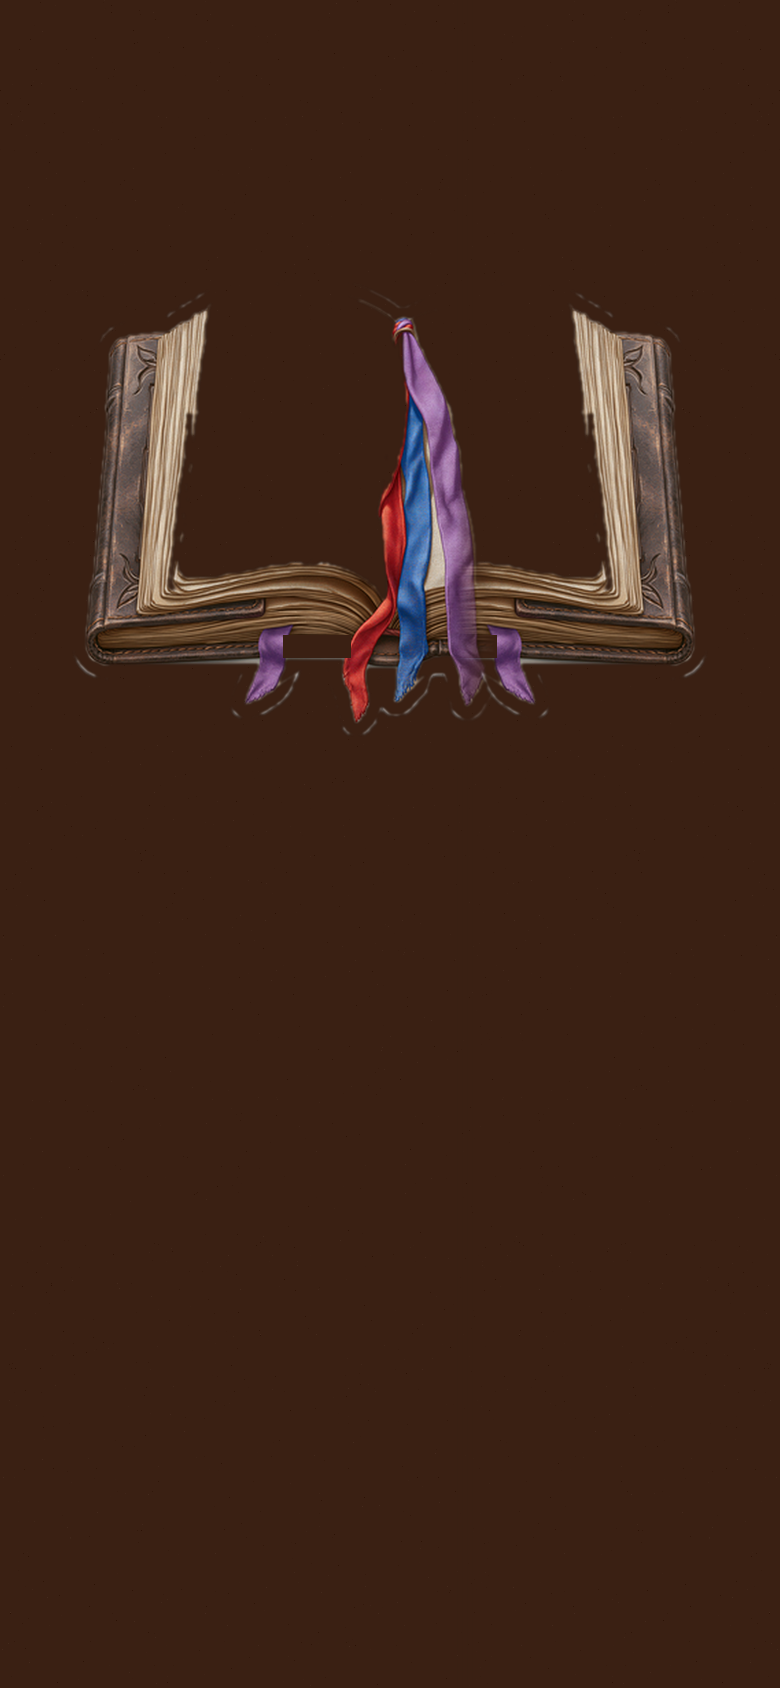
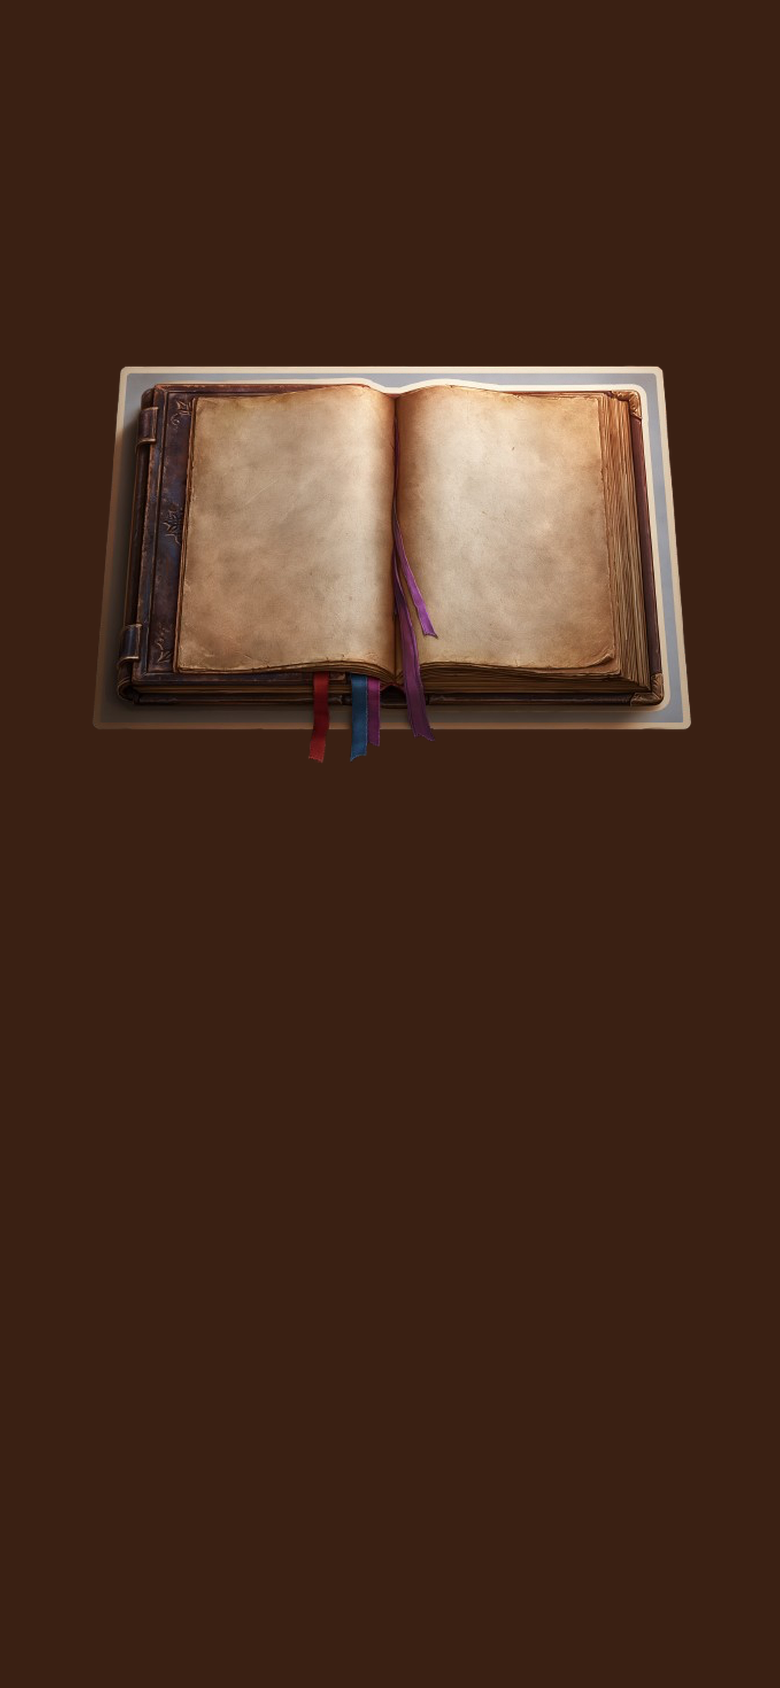
Replace journal_bg and campfire_card with clean provided backgrounds
- campfire_card.png swapped directly (already force-scaled to a fixed
  box in CampfireScene, so source aspect ratio doesn't matter).
- journal_bg.png needed compositing rather than a direct swap: the new
  book art is landscape (577x432) with transparent surroundings, while
  the scene stretches this texture full-screen at the portrait canvas
  size (390x844). Built a proper portrait canvas with a solid dark
  background and the book centered/scaled within it, matching the
  previous layout's book position so the node tree still has room
  below it.
- The new book's pages are light parchment (previous background was
  uniformly dark), so node name/cost text - light-colored for
  legibility against dark brown - went washed-out wherever it
  overlapped the page. Added a dark stroke outline to both labels so
  they stay readable over both the light page and the dark backdrop.

Changed region(s): [[0.0923, 0.1848, 0.8923, 0.4621]]

diff --git a/src/scenes/JournalScene.js b/src/scenes/JournalScene.js
@@ -181,14 +181,16 @@ export default class JournalScene extends Phaser.Scene {
       container.add(icon);
 
       const name = this.add.text(x, y + 28, node.name, {
-        fontFamily: 'serif', fontSize: '10px', color: '#f5e6c8', align: 'center'
+        fontFamily: 'serif', fontSize: '10px', color: '#f5e6c8', align: 'center',
+        stroke: '#1a0f05', strokeThickness: 3
       }).setOrigin(0.5, 0);
       container.add(name);
 
       let costLabel = null;
       if (!isUnlocked) {
         costLabel = this.add.text(x, y + 40, `${node.cost} INS`, {
-          fontFamily: 'serif', fontSize: '9px', color: '#d9b88a'
+          fontFamily: 'serif', fontSize: '9px', color: '#d9b88a',
+          stroke: '#1a0f05', strokeThickness: 3
         }).setOrigin(0.5, 0);
         container.add(costLabel);
       }